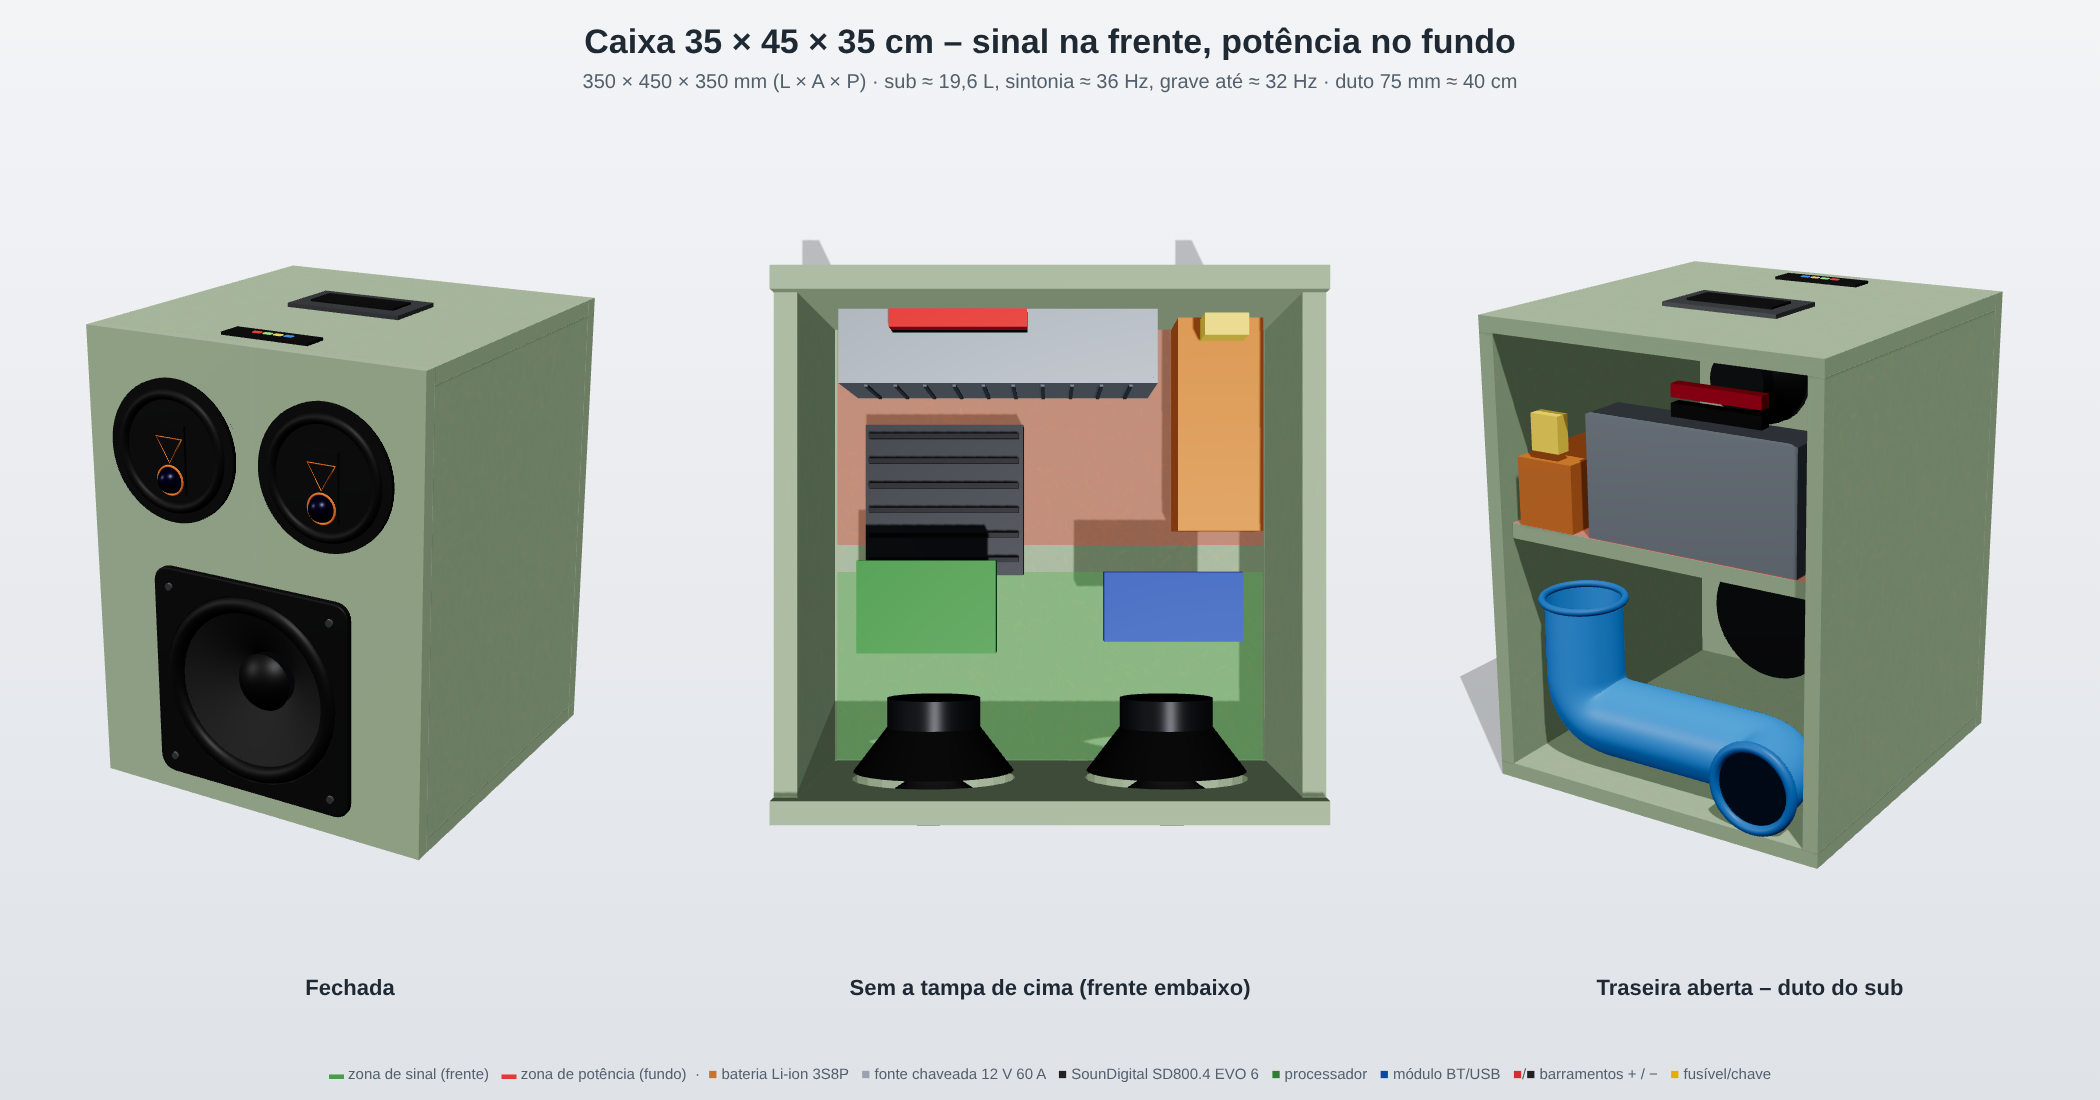
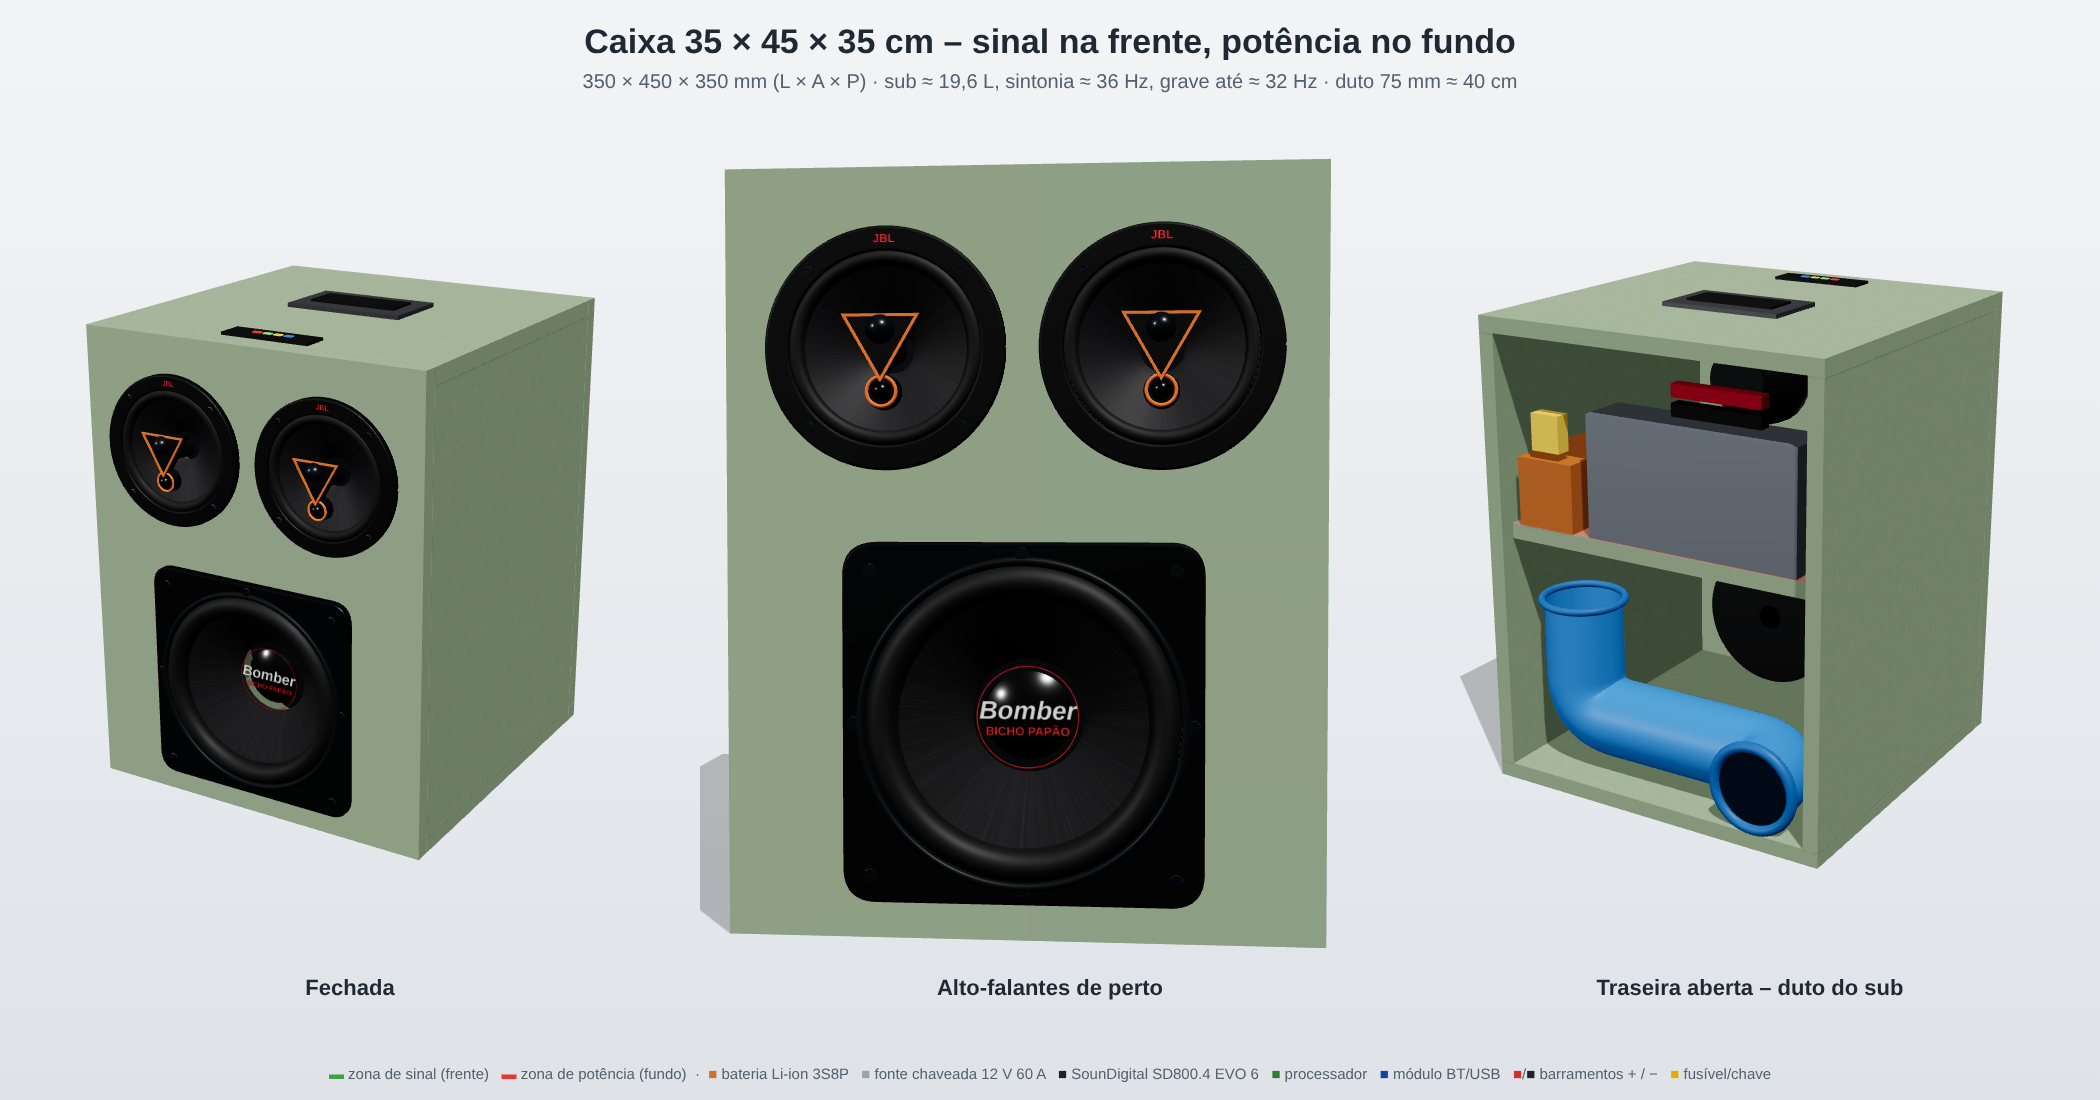
Melhora o modelo 3D dos alto-falantes
Claude-Session: https://claude.ai/code/session_01Xqr2b8JS1uj39tzQWZP4xF

diff --git a/ferramentas/render3d/combo-35x45x35.html b/ferramentas/render3d/combo-35x45x35.html
@@ -9,7 +9,7 @@ body{margin:0;width:2100px;height:1100px;background:linear-gradient(#f3f4f6,#dfe
 <div id="t">Caixa 35 × 45 × 35 cm – sinal na frente, potência no fundo</div>
 <div id="s">350 × 450 × 350 mm (L × A × P) · sub ≈ 19,6 L, sintonia ≈ 36 Hz, grave até ≈ 32 Hz · duto 75 mm ≈ 40 cm</div>
 <div class="c" id="a" style="left:0"></div><div class="c" id="b" style="left:700px"></div><div class="c" id="c" style="left:1400px"></div>
-<div class="l" style="left:1400px">Traseira aberta – duto do sub</div><div class="l" style="left:0">Fechada</div><div class="l" style="left:700px">Sem a tampa de cima (frente embaixo)</div>
+<div class="l" style="left:1400px">Traseira aberta – duto do sub</div><div class="l" style="left:0">Fechada</div><div class="l" style="left:700px">Alto-falantes de perto</div>
 <div id="f"><span style='color:#43a047'>▬</span> zona de sinal (frente) &nbsp; <span style='color:#e53935'>▬</span> zona de potência (fundo) &nbsp;·&nbsp; <span style='color:#c8742c'>■</span> bateria Li-ion 3S8P &nbsp; <span style='color:#9aa3ad'>■</span> fonte chaveada 12 V 60 A &nbsp; <span style='color:#222'>■</span> SounDigital SD800.4 EVO 6 &nbsp; <span style='color:#2e7d32'>■</span> processador &nbsp; <span style='color:#0d47a1'>■</span> módulo BT/USB &nbsp; <span style='color:#d32f2f'>■</span>/<span style='color:#222'>■</span> barramentos + / − &nbsp; <span style='color:#e0b000'>■</span> fusível/chave</div>
 <script src="node_modules/three/build/three.min.js"></script>
 <script>
@@ -38,31 +38,65 @@ function scene(open){
  const metal=new THREE.MeshStandardMaterial({color:0xb8bcc2,metalness:0.9,roughness:0.3});
  const orange=new THREE.MeshStandardMaterial({color:0xd2691e,roughness:0.5});
  const zf=D/2;
- // sub 8"
- const spk=new THREE.Group();spk.position.y=subY;g.add(spk);
- const fs=new THREE.Shape();const r=1.6,a=10.35;fs.moveTo(-a+r,-a);fs.lineTo(a-r,-a);fs.quadraticCurveTo(a,-a,a,-a+r);fs.lineTo(a,a-r);fs.quadraticCurveTo(a,a,a-r,a);fs.lineTo(-a+r,a);fs.quadraticCurveTo(-a,a,-a,a-r);fs.lineTo(-a,-a+r);fs.quadraticCurveTo(-a,-a,-a+r,-a);
- const fh=new THREE.Path();fh.absarc(0,0,9.3,0,Math.PI*2,true);fs.holes.push(fh);
- const frame=new THREE.Mesh(new THREE.ExtrudeGeometry(fs,{depth:0.5,bevelEnabled:true,bevelSize:0.15,bevelThickness:0.15}),black);frame.position.z=zf;spk.add(frame);
- const sur=new THREE.Mesh(new THREE.TorusGeometry(8.4,0.85,24,96),rub);sur.position.z=zf+0.25;spk.add(sur);
- const pts=[];for(let i=0;i<=20;i++){const t=i/20;pts.push(new THREE.Vector2(2.6+t*5,-3.2+Math.pow(t,0.8)*3.4));}
- const cn=new THREE.Mesh(new THREE.LatheGeometry(pts,96),cone);cn.rotation.x=Math.PI/2;cn.position.z=zf+0.2;spk.add(cn);
- const cap=new THREE.Mesh(new THREE.SphereGeometry(3.4,48,24,0,Math.PI*2,0,Math.PI/3.2),rub);cap.rotation.x=Math.PI/2;cap.position.z=zf-3.6;spk.add(cap);
- for(const[x,y]of[[-8.7,-8.7],[8.7,-8.7],[-8.7,8.7],[8.7,8.7]]){const sc=new THREE.Mesh(new THREE.CylinderGeometry(0.35,0.35,0.3,16),metal);sc.rotation.x=Math.PI/2;sc.position.set(x,y,zf+0.8);spk.add(sc);}
- const bask=new THREE.Mesh(new THREE.CylinderGeometry(9,6.7,9.5,48,1,true),black);bask.rotation.x=Math.PI/2;bask.position.z=zf-T-4.75;spk.add(bask);
- const mag=new THREE.Mesh(new THREE.CylinderGeometry(6.7,6.7,3.6,48),new THREE.MeshStandardMaterial({color:0x2d2f33,metalness:0.6,roughness:0.4}));mag.rotation.x=Math.PI/2;mag.position.z=zf-11.3;spk.add(mag);
- // JBL 5" triaxial/coaxial
- for(const sx of[-jX,jX]){const j=new THREE.Group();j.position.set(sx,jY,0);g.add(j);
-  const fr2=new THREE.Mesh(new THREE.CylinderGeometry(6.7,6.7,0.5,64),black);fr2.rotation.x=Math.PI/2;fr2.position.z=zf+0.25;j.add(fr2);
-  const s2=new THREE.Mesh(new THREE.TorusGeometry(5.3,0.5,16,64),rub);s2.position.z=zf+0.4;j.add(s2);
-  const p2=[];for(let i=0;i<=16;i++){const t=i/16;p2.push(new THREE.Vector2(1.5+t*3.4,-2+Math.pow(t,0.8)*2.2));}
-  const c2=new THREE.Mesh(new THREE.LatheGeometry(p2,64),cone);c2.rotation.x=Math.PI/2;c2.position.z=zf+0.3;j.add(c2);
-  const br=new THREE.Mesh(new THREE.BoxGeometry(3.2,6.5,1.2),black);br.position.set(0,-0.6,zf+0.2);j.add(br);
-  const tw=new THREE.Mesh(new THREE.SphereGeometry(1.2,24,12,0,Math.PI*2,0,Math.PI/2),new THREE.MeshStandardMaterial({color:0x333,metalness:0.4,roughness:0.3}));tw.rotation.x=Math.PI/2;tw.position.set(0,-2.6,zf+0.8);j.add(tw);
-  const ring=new THREE.Mesh(new THREE.TorusGeometry(1.35,0.12,8,32),orange);ring.position.set(0,-2.6,zf+0.85);j.add(ring);
-  const tri=new THREE.Mesh(new THREE.TorusGeometry(1.6,0.1,3,3),orange);tri.rotation.z=-Math.PI/2;tri.position.set(0,0.6,zf+0.85);j.add(tri);
-  const jm=new THREE.Mesh(new THREE.CylinderGeometry(3.2,3.2,2,32),new THREE.MeshStandardMaterial({color:0x2d2f33,metalness:0.6,roughness:0.4}));jm.rotation.x=Math.PI/2;jm.position.z=zf-T-4.5;j.add(jm);
-  const jb=new THREE.Mesh(new THREE.CylinderGeometry(5.5,3.2,3,32,1,true),black);jb.rotation.x=Math.PI/2;jb.position.z=zf-T-2;j.add(jb);}
 
+ // ===== texturas =====
+ const cv=(w,h,fn)=>{const c=document.createElement('canvas');c.width=w;c.height=h;fn(c.getContext('2d'),w,h);const t=new THREE.CanvasTexture(c);t.colorSpace=THREE.SRGBColorSpace;t.anisotropy=8;return t;};
+ const coneTex=(base,fib)=>cv(1024,512,(g,w,h)=>{g.fillStyle=base;g.fillRect(0,0,w,h);
+   for(let i=0;i<1400;i++){g.strokeStyle=`rgba(${fib},${Math.random()*0.035})`;g.lineWidth=Math.random()*1.2;const x=Math.random()*w;g.beginPath();g.moveTo(x,0);g.lineTo(x+(Math.random()-0.5)*6,h);g.stroke();}
+   for(let r=0;r<6;r++){const y=h*(0.15+r*0.14);g.fillStyle='rgba(255,255,255,0.035)';g.fillRect(0,y,w,3);g.fillStyle='rgba(0,0,0,0.25)';g.fillRect(0,y+3,w,2);} });
+ const logoSub=cv(512,512,(g,w,h)=>{g.clearRect(0,0,w,h);g.textAlign='center';
+   g.fillStyle='#f2f2f2';g.font='italic bold 120px Arial';g.fillText('Bomber',w/2,h/2+10);
+   g.fillStyle='#e53935';g.font='bold 56px Arial';g.fillText('BICHO PAPÃO',w/2,h/2+85);
+   g.strokeStyle='rgba(229,57,53,0.9)';g.lineWidth=6;g.beginPath();g.arc(w/2,h/2,236,0,Math.PI*2);g.stroke();});
+ const logoJBL=cv(256,128,(g,w,h)=>{g.clearRect(0,0,w,h);g.fillStyle='#e53935';g.font='bold 92px Arial';g.textAlign='center';g.fillText('JBL',w/2,96);});
+ const rubM=new THREE.MeshPhysicalMaterial({color:0x151515,roughness:0.55,clearcoat:0.3,clearcoatRoughness:0.6});
+ const gunM=new THREE.MeshStandardMaterial({color:0x2a2c30,roughness:0.35,metalness:0.75});
+ const plastM=new THREE.MeshStandardMaterial({color:0x141414,roughness:0.5,metalness:0.1});
+ const screwM=new THREE.MeshStandardMaterial({color:0xcfd3d8,roughness:0.25,metalness:1});
+ const orangeM=new THREE.MeshStandardMaterial({color:0xe0702a,roughness:0.4,emissive:0x3a1400});
+ const subCone=new THREE.MeshStandardMaterial({map:coneTex('#1b1b1d','255,255,255'),roughness:0.85,side:THREE.DoubleSide});
+ const midCone=new THREE.MeshStandardMaterial({map:coneTex('#202022','200,200,210'),roughness:0.6,metalness:0.1,side:THREE.DoubleSide});
+ const screw=(par,x,y,z,r=0.38)=>{const h=new THREE.Mesh(new THREE.CylinderGeometry(r,r,0.25,20),screwM);h.rotation.x=Math.PI/2;h.position.set(x,y,z);par.add(h);
+   const sl=new THREE.Mesh(new THREE.BoxGeometry(r*1.5,0.08,0.05),new THREE.MeshStandardMaterial({color:0x333}));sl.position.set(x,y,z+0.13);par.add(sl);};
+ const lathe=(r0,r1,depth,curve,mat,seg=128)=>{const p=[];for(let i=0;i<=24;i++){const t=i/24;p.push(new THREE.Vector2(r0+t*(r1-r0),-depth+Math.pow(t,curve)*depth));}
+   const m=new THREE.Mesh(new THREE.LatheGeometry(p,seg),mat);m.rotation.x=Math.PI/2;return m;};
+ // ===== sub Bomber Bicho Papão 8" =====
+ const spk=new THREE.Group();spk.position.y=subY;g.add(spk);
+ { const a=10.35,c=1.8;const fs=new THREE.Shape();fs.moveTo(-a+c,-a);fs.lineTo(a-c,-a);fs.quadraticCurveTo(a,-a,a,-a+c);fs.lineTo(a,a-c);fs.quadraticCurveTo(a,a,a-c,a);fs.lineTo(-a+c,a);fs.quadraticCurveTo(-a,a,-a,a-c);fs.lineTo(-a,-a+c);fs.quadraticCurveTo(-a,-a,-a+c,-a);
+   const fh=new THREE.Path();fh.absarc(0,0,9.35,0,Math.PI*2,true);fs.holes.push(fh);
+   const fr=new THREE.Mesh(new THREE.ExtrudeGeometry(fs,{depth:0.55,bevelEnabled:true,bevelSize:0.18,bevelThickness:0.18,bevelSegments:3}),gunM);fr.position.z=zf;fr.castShadow=true;spk.add(fr);
+   const lip=new THREE.Mesh(new THREE.TorusGeometry(9.45,0.28,16,128),gunM);lip.position.z=zf+0.75;spk.add(lip);
+   for(const[x,y]of[[-8.9,-8.9],[8.9,-8.9],[-8.9,8.9],[8.9,8.9],[0,-9.9],[0,9.9],[-9.9,0],[9.9,0]])screw(spk,x,y,zf+0.85);
+   const sur=new THREE.Mesh(new THREE.TorusGeometry(8.3,1.0,40,160,Math.PI*2),rubM);sur.scale.z=1.15;sur.position.z=zf+0.15;spk.add(sur);
+   const cn=lathe(3.4,7.35,3.6,0.75,subCone,160);cn.position.z=zf+0.15;spk.add(cn);
+   const capR=4.6,capA=0.62;const cap=new THREE.Mesh(new THREE.SphereGeometry(capR,64,32,0,Math.PI*2,0,capA),new THREE.MeshPhysicalMaterial({color:0x111113,roughness:0.25,clearcoat:1,clearcoatRoughness:0.15}));
+   cap.rotation.x=Math.PI/2;cap.position.z=zf-3.45-capR*Math.cos(capA)+0.05;spk.add(cap);
+   const dec=new THREE.Mesh(new THREE.CircleGeometry(3.3,64),new THREE.MeshStandardMaterial({map:logoSub,transparent:true,roughness:0.4}));dec.position.z=zf-3.45+capR*(1-Math.cos(capA))+0.06;spk.add(dec);
+   const bask=new THREE.Mesh(new THREE.CylinderGeometry(9,6.7,9.5,48,1,true),gunM);bask.rotation.x=Math.PI/2;bask.position.z=zf-T-4.75;spk.add(bask);
+   const magM=new THREE.MeshStandardMaterial({color:0x26282c,metalness:0.6,roughness:0.45});
+   for(const[zz,hh]of[[-10.3,1.8],[-12.2,1.8]]){const m=new THREE.Mesh(new THREE.CylinderGeometry(6.7,6.7,hh,64),magM);m.rotation.x=Math.PI/2;m.position.z=zf+zz;spk.add(m);}
+   const bp=new THREE.Mesh(new THREE.CylinderGeometry(6.9,6.9,0.5,64),screwM);bp.rotation.x=Math.PI/2;bp.position.z=zf-13.35;spk.add(bp);
+   const vent=new THREE.Mesh(new THREE.CylinderGeometry(1.2,1.2,0.6,32),new THREE.MeshBasicMaterial({color:0x050505}));vent.rotation.x=Math.PI/2;vent.position.z=zf-13.4;spk.add(vent); }
+ // ===== JBL Multisystem 5TRMS80 (triaxial) =====
+ for(const sx of[-jX,jX]){const j=new THREE.Group();j.position.set(sx,jY,0);g.add(j);
+   const rs=new THREE.Shape();rs.absarc(0,0,6.9,0,Math.PI*2,false);const rh=new THREE.Path();rh.absarc(0,0,5.75,0,Math.PI*2,true);rs.holes.push(rh);
+   const ring=new THREE.Mesh(new THREE.ExtrudeGeometry(rs,{depth:0.45,bevelEnabled:true,bevelSize:0.15,bevelThickness:0.15,bevelSegments:3,curveSegments:96}),plastM);ring.position.z=zf;ring.castShadow=true;j.add(ring);
+   for(const ang of[45,135,225,315]){const r=6.35;screw(j,r*Math.cos(ang*Math.PI/180),r*Math.sin(ang*Math.PI/180),zf+0.7,0.28);}
+   const lg=new THREE.Mesh(new THREE.PlaneGeometry(1.9,0.95),new THREE.MeshBasicMaterial({map:logoJBL,transparent:true}));lg.position.set(0,6.3,zf+0.62);j.add(lg);
+   const sur=new THREE.Mesh(new THREE.TorusGeometry(5.25,0.5,28,120),rubM);sur.position.z=zf+0.1;j.add(sur);
+   const cn=lathe(1.3,4.8,2.1,0.85,midCone,120);cn.position.z=zf+0.15;j.add(cn);
+   const post=new THREE.Mesh(new THREE.CylinderGeometry(0.75,0.95,2.6,24),plastM);post.rotation.x=Math.PI/2;post.position.z=zf-0.4;j.add(post);
+   // ponte triangular (ponta para baixo) com contorno laranja
+   const tri=(R)=>{const s=new THREE.Shape();for(let k=0;k<3;k++){const an=Math.PI/2+k*2*Math.PI/3;const x=R*Math.cos(an),y=-R*Math.sin(an);k?s.lineTo(x,y):s.moveTo(x,y);}s.closePath();return s;};
+   const tb=new THREE.Mesh(new THREE.ExtrudeGeometry(tri(2.5),{depth:0.7,bevelEnabled:true,bevelSize:0.12,bevelThickness:0.12,bevelSegments:2}),plastM);tb.position.set(0,0.55,zf+0.9);j.add(tb);
+   const os=tri(2.62);const oh=new THREE.Path();oh.setFromPoints(tri(2.28).getPoints().reverse());os.holes.push(oh);
+   const ol=new THREE.Mesh(new THREE.ExtrudeGeometry(os,{depth:0.15,bevelEnabled:false}),orangeM);ol.position.set(0,0.55,zf+1.75);j.add(ol);
+   const tw=new THREE.Mesh(new THREE.SphereGeometry(0.85,32,16,0,Math.PI*2,0,Math.PI/2),new THREE.MeshPhysicalMaterial({color:0x2b2f38,metalness:0.6,roughness:0.25,clearcoat:1}));tw.rotation.x=Math.PI/2;tw.position.set(0,0.95,zf+1.85);j.add(tw);
+   const st=new THREE.Mesh(new THREE.CylinderGeometry(0.95,1.05,0.9,32),plastM);st.rotation.x=Math.PI/2;st.position.set(0,-2.55,zf+1.05);j.add(st);
+   const sd=new THREE.Mesh(new THREE.SphereGeometry(0.6,24,12,0,Math.PI*2,0,Math.PI/2),new THREE.MeshPhysicalMaterial({color:0x1d2026,metalness:0.7,roughness:0.2,clearcoat:1}));sd.rotation.x=Math.PI/2;sd.position.set(0,-2.55,zf+1.5);j.add(sd);
+   const sr=new THREE.Mesh(new THREE.TorusGeometry(0.85,0.11,12,48),orangeM);sr.position.set(0,-2.55,zf+1.55);j.add(sr);
+   const jb=new THREE.Mesh(new THREE.CylinderGeometry(5.5,3.2,3,32,1,true),plastM);jb.rotation.x=Math.PI/2;jb.position.z=zf-T-2;j.add(jb);
+   const jm=new THREE.Mesh(new THREE.CylinderGeometry(3.2,3.2,2,32),new THREE.MeshStandardMaterial({color:0x2d2f33,metalness:0.6,roughness:0.4}));jm.rotation.x=Math.PI/2;jm.position.z=zf-T-4.5;j.add(jm); }
  // compartimento técnico
  const box=(w,h,d,x,y,z,col,met=0.2)=>{const m=new THREE.Mesh(new THREE.BoxGeometry(w,h,d),new THREE.MeshStandardMaterial({color:col,roughness:0.5,metalness:met}));m.position.set(x,y,z);m.castShadow=m.receiveShadow=true;g.add(m);return m;};
  const by=divY+T/2;
@@ -106,6 +140,6 @@ function scene(open){
 let NOTOP=false;
 function render(id,open,cam,up){const el=document.getElementById(id);const rd=new THREE.WebGLRenderer({antialias:true,alpha:true,preserveDrawingBuffer:true});
  rd.setSize(700,880);rd.shadowMap.enabled=true;rd.shadowMap.type=THREE.PCFSoftShadowMap;rd.outputColorSpace=THREE.SRGBColorSpace;rd.toneMapping=THREE.ACESFilmicToneMapping;el.appendChild(rd.domElement);
- const c=new THREE.PerspectiveCamera(30,700/880,1,500);c.position.set(...cam);if(up)c.up.set(...up);c.lookAt(0,up?8:-1,0);rd.render(scene(open),c);}
-NOTOP=false;render('a',false,[78,54,132]);NOTOP=true;render('b',false,[0,125,0.01],[0,0,-1]);NOTOP=false;render('c',true,[-78,50,-128]);window.done=true;
+ const c=new THREE.PerspectiveCamera(30,700/880,1,500);c.position.set(...cam);if(up)c.up.set(...up);c.lookAt(0,id==='b'?0:(up?8:-1),0);rd.render(scene(open),c);}
+NOTOP=false;render('a',false,[78,54,132]);NOTOP=true;NOTOP=false;render('b',false,[10,4,112]);render('c',true,[-78,50,-128]);window.done=true;
 </script></body></html>
